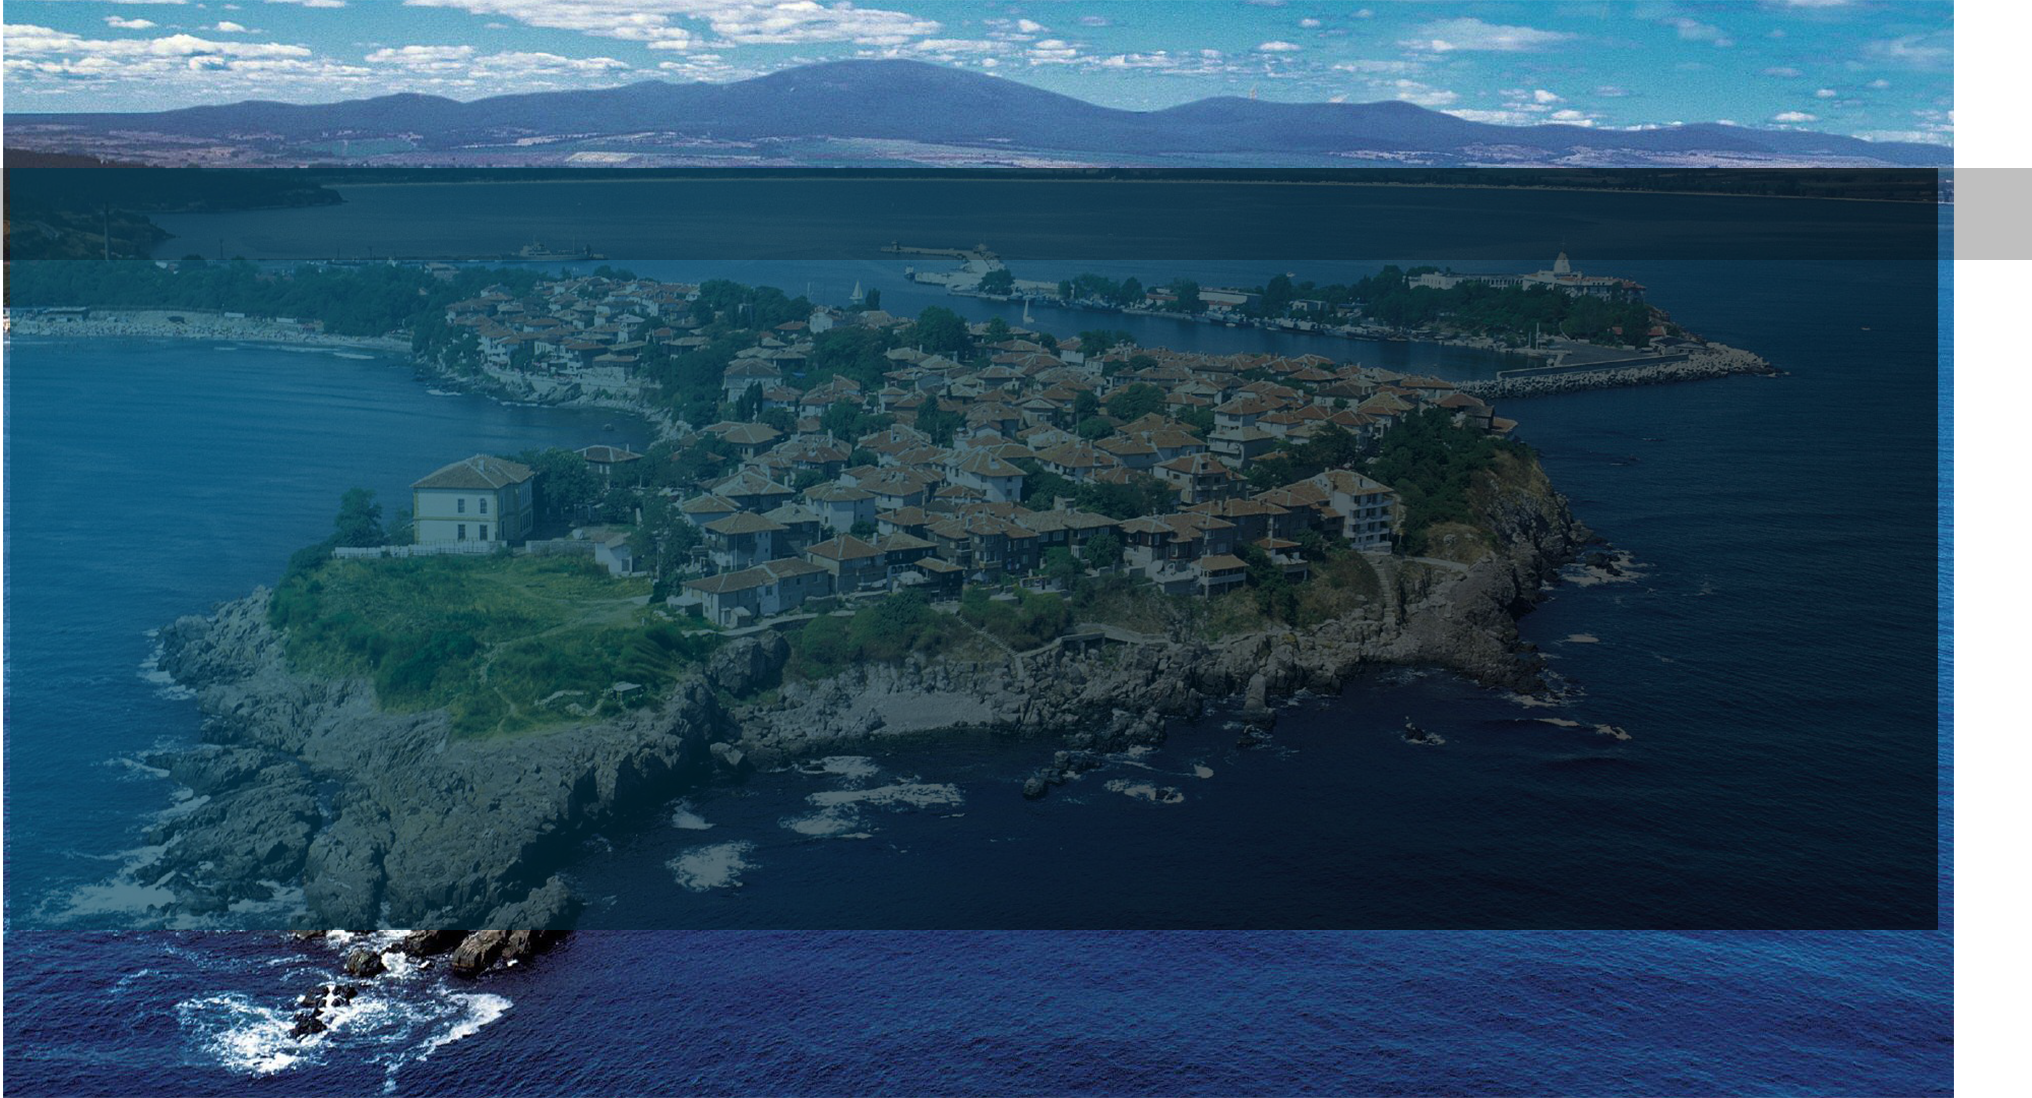
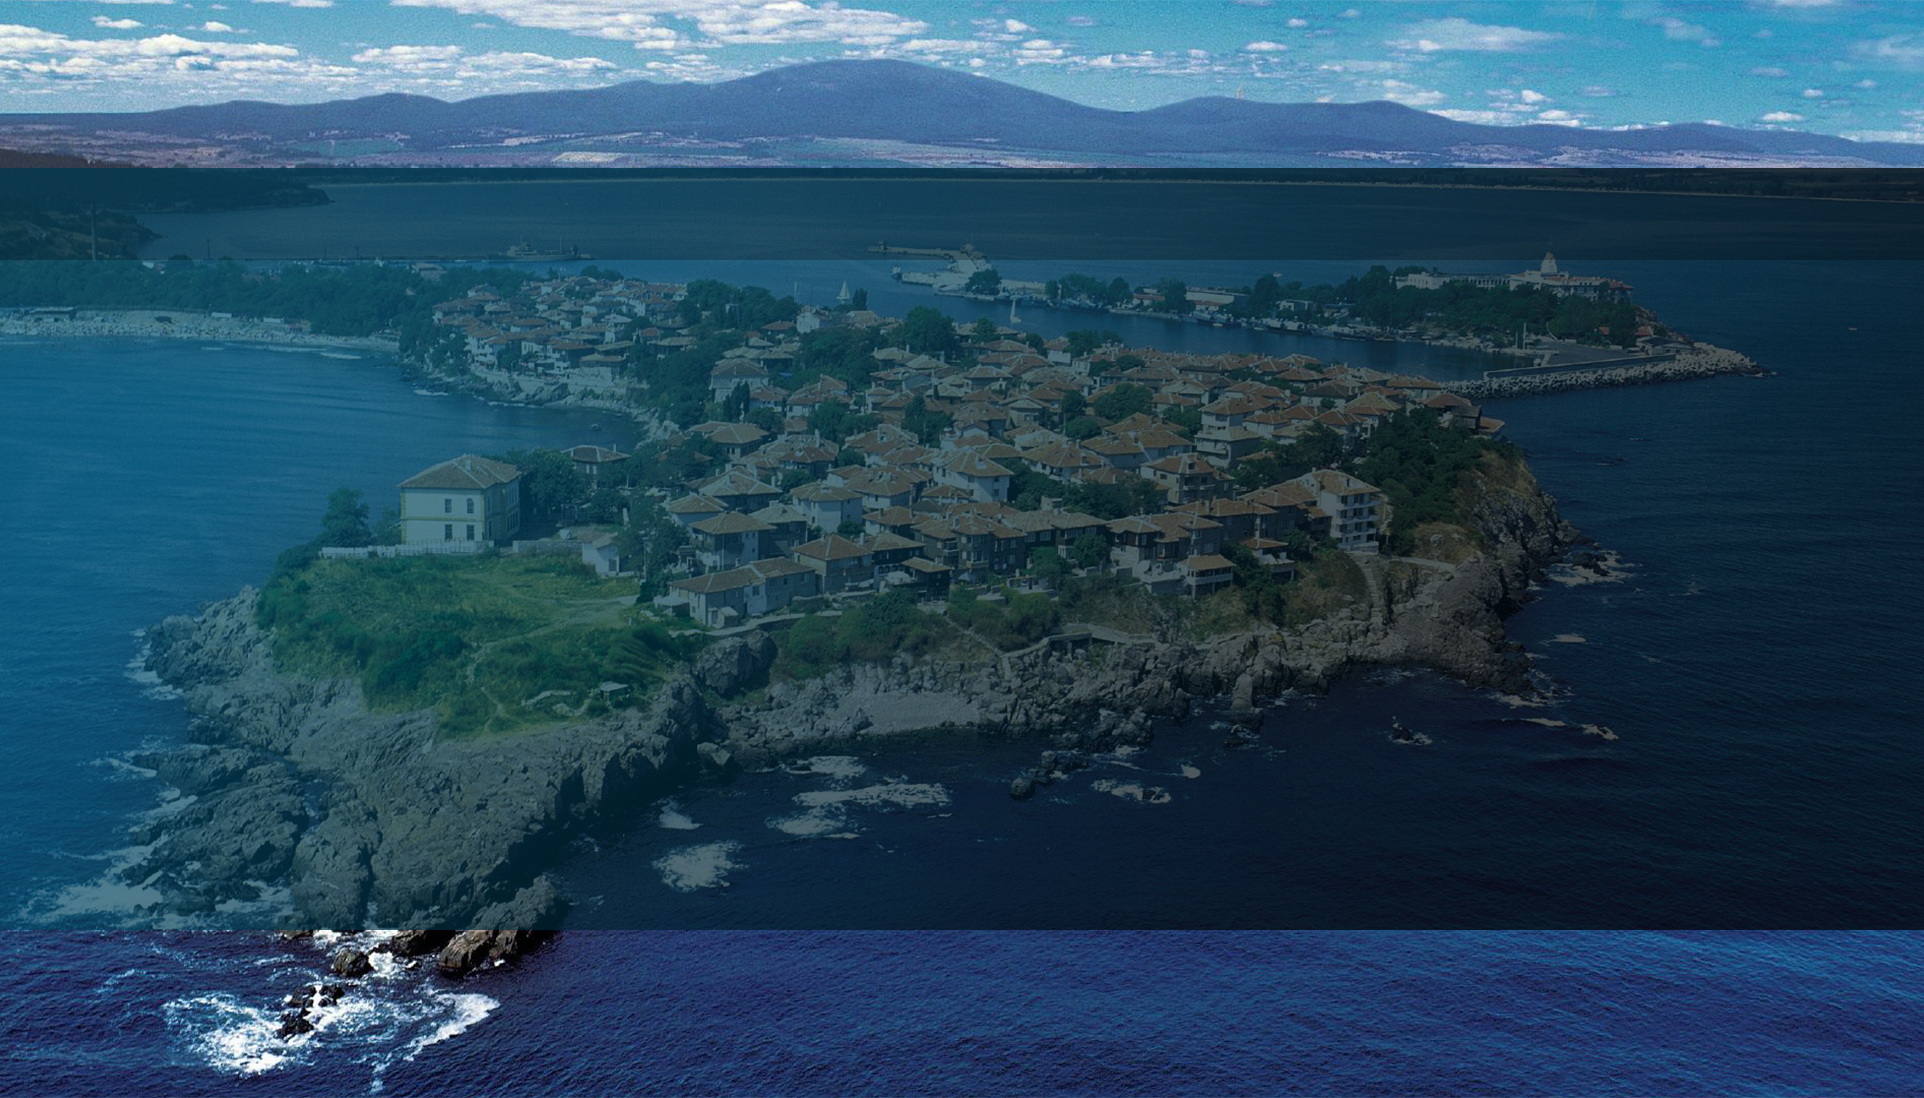
#first background fix

diff --git a/css/bulgaria.css b/css/bulgaria.css
@@ -57,7 +57,7 @@ button:activ, input:focus, input:activ {
 
 
 #first {
-	background: url(../img/tours11.png) no-repeat 1px center;
+	background: url(../img/tours11.png) no-repeat center center;
   width: 100%; 
   height: 700px;
 }

diff --git a/css/next_pages.css b/css/next_pages.css
@@ -50,7 +50,7 @@ button:activ, input:focus, input:activ {
 
 
 #first {
-	background: url(../img/tours11.png) no-repeat 1px center;
+	background: url(../img/tours11.png) no-repeat center center;
   width: 100%;
   height: 500px;
 }
